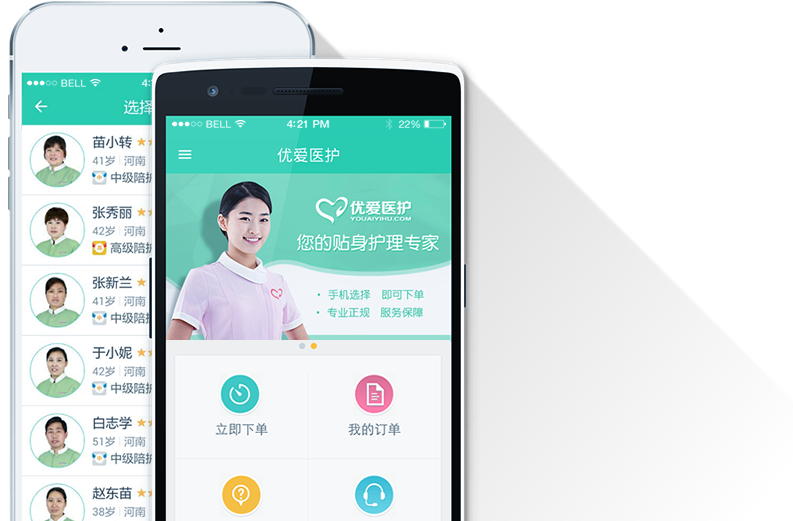
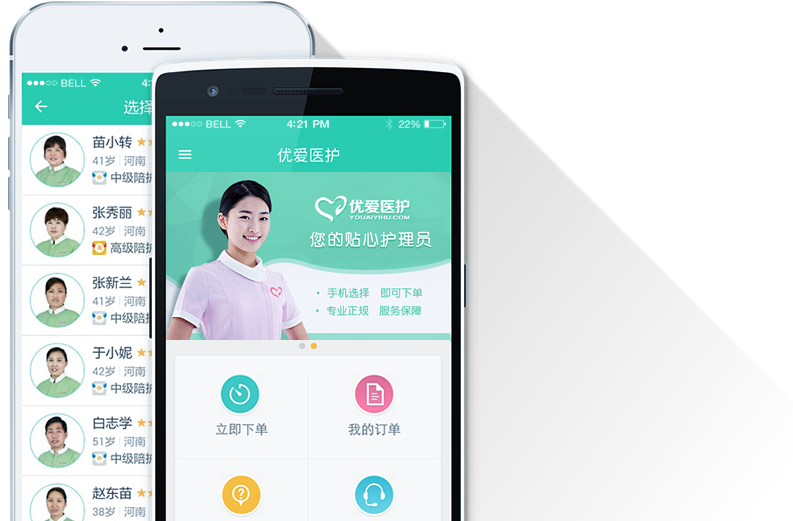
换图片，文字

diff --git a/frontend/views/site/index.php b/frontend/views/site/index.php
@@ -1,12 +1,12 @@
 <?php
-$this->title = '优爱医护-您的贴身的护理专家';
+$this->title = '优爱医护-您的贴心的护理员';
 ?>
 <div class="banner">
     <div class="section">
         <div class="icon">
             <img src="/images/index/app-icon.png" width="148" height="148" alt="应用图标" />
             <b class="name">优爱医护</b>
-            <span class="desc">您的贴身生活照料</span>
+            <span class="desc">您的贴心生活照料</span>
             <h2 class="slogan">专注 便捷 省心</h2>
         </div>
         <div class="download">
